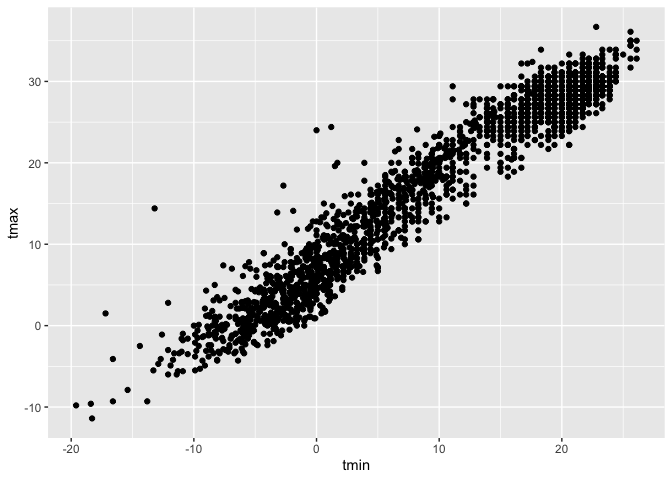
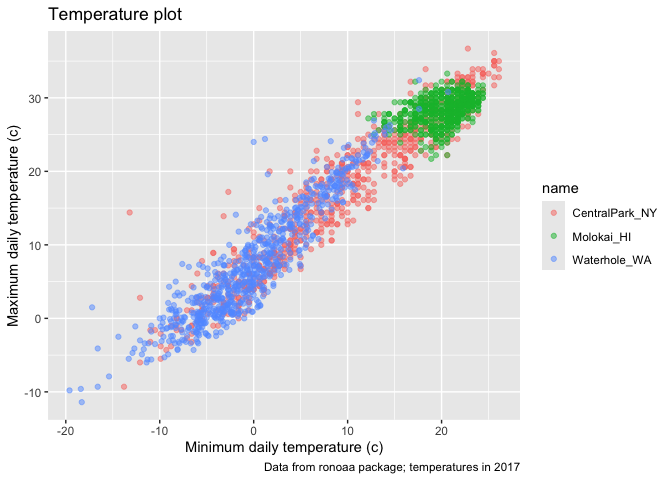
scales

diff --git a/viz_ii.md b/viz_ii.md
@@ -1,0 +1,152 @@
+viz_i
+================
+Jianing Chen
+2024-09-26
+
+``` r
+library(tidyverse)
+```
+
+    ## ── Attaching core tidyverse packages ──────────────────────── tidyverse 2.0.0 ──
+    ## ✔ dplyr     1.1.4     ✔ readr     2.1.5
+    ## ✔ forcats   1.0.0     ✔ stringr   1.5.1
+    ## ✔ ggplot2   3.5.1     ✔ tibble    3.2.1
+    ## ✔ lubridate 1.9.3     ✔ tidyr     1.3.1
+    ## ✔ purrr     1.0.2     
+    ## ── Conflicts ────────────────────────────────────────── tidyverse_conflicts() ──
+    ## ✖ dplyr::filter() masks stats::filter()
+    ## ✖ dplyr::lag()    masks stats::lag()
+    ## ℹ Use the conflicted package (<http://conflicted.r-lib.org/>) to force all conflicts to become errors
+
+``` r
+library(patchwork )
+```
+
+## Load the weather data
+
+``` r
+weather_df = 
+  rnoaa::meteo_pull_monitors(
+    c("USW00094728", "USW00022534", "USS0023B17S"),
+    var = c("PRCP", "TMIN", "TMAX"), 
+    date_min = "2021-01-01",
+    date_max = "2022-12-31") %>%
+  mutate(
+    name = case_match(
+      id, 
+      "USW00094728" ~ "CentralPark_NY", 
+      "USW00022534" ~ "Molokai_HI",
+      "USS0023B17S" ~ "Waterhole_WA"),
+    tmin = tmin / 10,
+    tmax = tmax / 10) %>%
+  select(name, id, everything())
+```
+
+    ## using cached file: /Users/jianingchen/Library/Caches/org.R-project.R/R/rnoaa/noaa_ghcnd/USW00094728.dly
+
+    ## date created (size, mb): 2024-09-26 10:28:11.932947 (8.651)
+
+    ## file min/max dates: 1869-01-01 / 2024-09-30
+
+    ## using cached file: /Users/jianingchen/Library/Caches/org.R-project.R/R/rnoaa/noaa_ghcnd/USW00022534.dly
+
+    ## date created (size, mb): 2024-09-26 10:28:17.893781 (3.932)
+
+    ## file min/max dates: 1949-10-01 / 2024-09-30
+
+    ## using cached file: /Users/jianingchen/Library/Caches/org.R-project.R/R/rnoaa/noaa_ghcnd/USS0023B17S.dly
+
+    ## date created (size, mb): 2024-09-26 10:28:19.926044 (1.036)
+
+    ## file min/max dates: 1999-09-01 / 2024-09-30
+
+``` r
+weather_df
+```
+
+    ## # A tibble: 2,190 × 6
+    ##    name           id          date        prcp  tmax  tmin
+    ##    <chr>          <chr>       <date>     <dbl> <dbl> <dbl>
+    ##  1 CentralPark_NY USW00094728 2021-01-01   157   4.4   0.6
+    ##  2 CentralPark_NY USW00094728 2021-01-02    13  10.6   2.2
+    ##  3 CentralPark_NY USW00094728 2021-01-03    56   3.3   1.1
+    ##  4 CentralPark_NY USW00094728 2021-01-04     5   6.1   1.7
+    ##  5 CentralPark_NY USW00094728 2021-01-05     0   5.6   2.2
+    ##  6 CentralPark_NY USW00094728 2021-01-06     0   5     1.1
+    ##  7 CentralPark_NY USW00094728 2021-01-07     0   5    -1  
+    ##  8 CentralPark_NY USW00094728 2021-01-08     0   2.8  -2.7
+    ##  9 CentralPark_NY USW00094728 2021-01-09     0   2.8  -4.3
+    ## 10 CentralPark_NY USW00094728 2021-01-10     0   5    -1.6
+    ## # ℹ 2,180 more rows
+
+## labels
+
+``` r
+weather_df %>%
+  ggplot(aes(x=tmin, y = tmax, color = name)) +
+  geom_point(alpha = .5) +
+  labs(
+    title = "Temperature plot",
+    x = "Minimum daily temperature (c)",
+    y = "Maximum daily temperature (c)",
+    caption = "Data from ronoaa package; temperatures in 2017"
+  )
+```
+
+    ## Warning: Removed 17 rows containing missing values or values outside the scale range
+    ## (`geom_point()`).
+
+![](viz_ii_files/figure-gfm/unnamed-chunk-2-1.png)<!-- --> \## Scales
+
+start with the same plot; x and y scales.
+
+``` r
+weather_df %>%
+  ggplot(aes(x=tmin, y = tmax, color = name)) +
+  geom_point(alpha = .5) +
+  labs(
+    title = "Temperature plot",
+    x = "Minimum daily temperature (c)",
+    y = "Maximum daily temperature (c)",
+    caption = "Data from ronoaa package; temperatures in 2017"
+  ) +
+  scale_x_continuous(
+    breaks = c(-15,0,15),
+    labels = c("-15 C", "0", "15")
+  ) +
+  scale_y_continuous(
+    ## trans = "sqrt"
+    ## "log"
+    position = "right"
+  )
+```
+
+    ## Warning: Removed 17 rows containing missing values or values outside the scale range
+    ## (`geom_point()`).
+
+![](viz_ii_files/figure-gfm/unnamed-chunk-3-1.png)<!-- --> Look at color
+scales.
+
+``` r
+weather_df %>%
+  ggplot(aes(x=tmin, y = tmax, color = name)) +
+  geom_point(alpha = .5) +
+  labs(
+    title = "Temperature plot",
+    x = "Minimum daily temperature (c)",
+    y = "Maximum daily temperature (c)",
+    caption = "Data from ronoaa package; temperatures in 2017"
+  ) +
+  ##scale_color_hue(
+    ##name = "location", 
+    ##h = c(100,300))
+  viridis::scale_color_viridis(
+    name = "Location",
+    discrete = TRUE
+  )
+```
+
+    ## Warning: Removed 17 rows containing missing values or values outside the scale range
+    ## (`geom_point()`).
+
+![](viz_ii_files/figure-gfm/unnamed-chunk-4-1.png)<!-- -->
